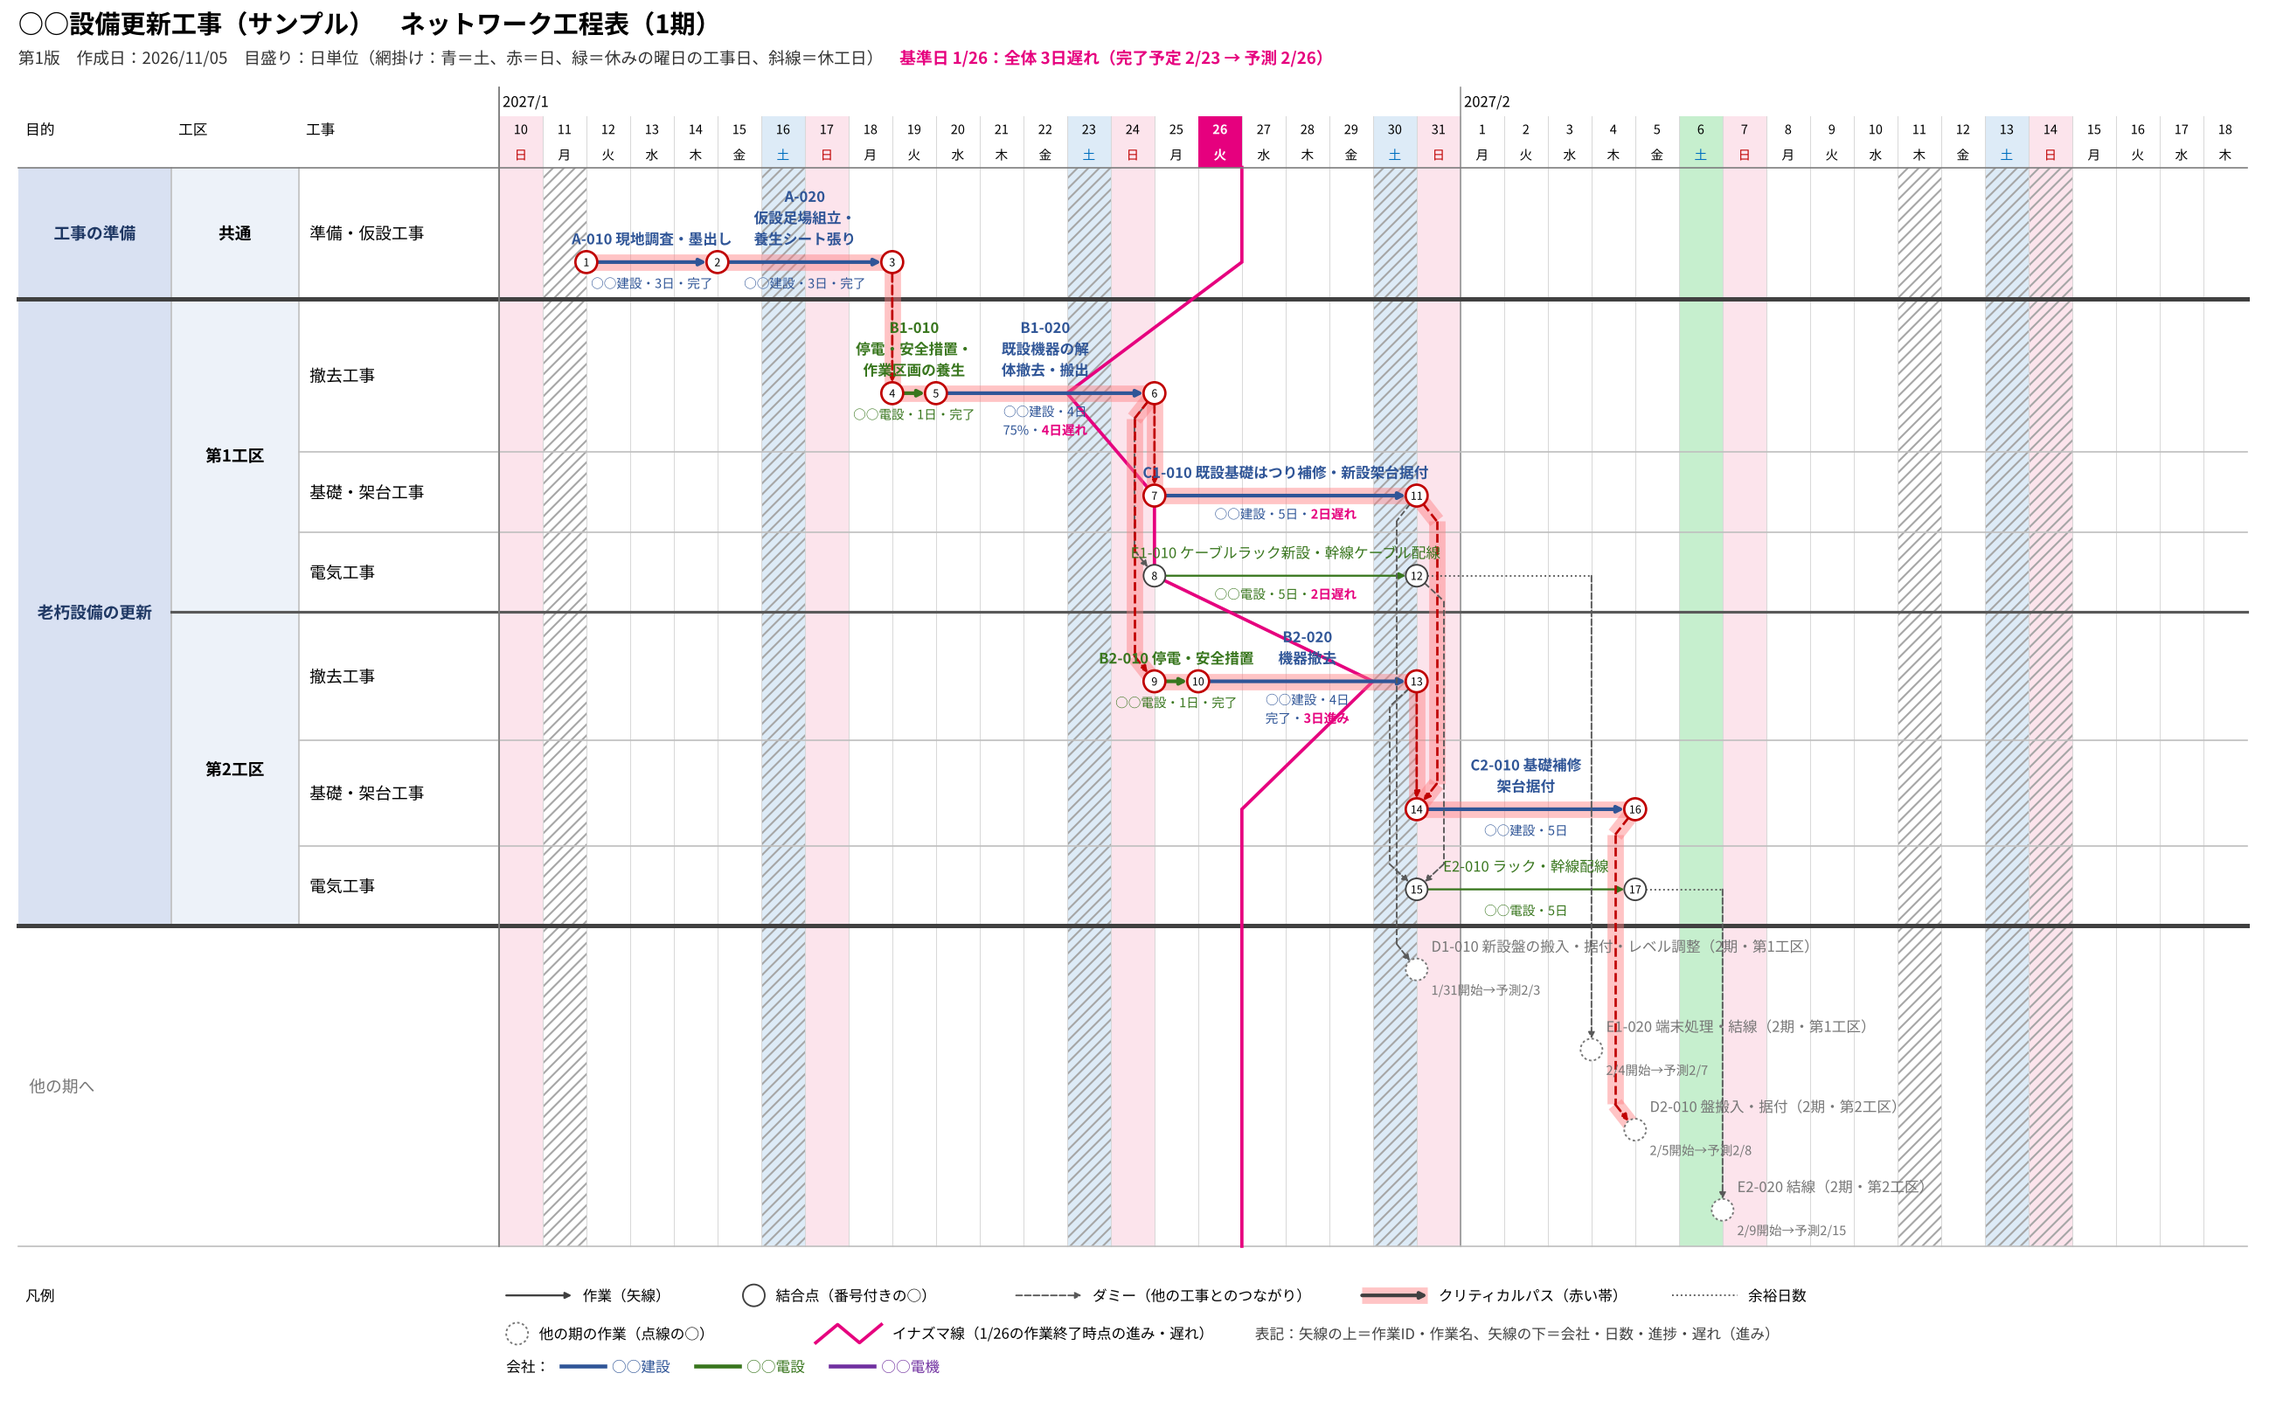
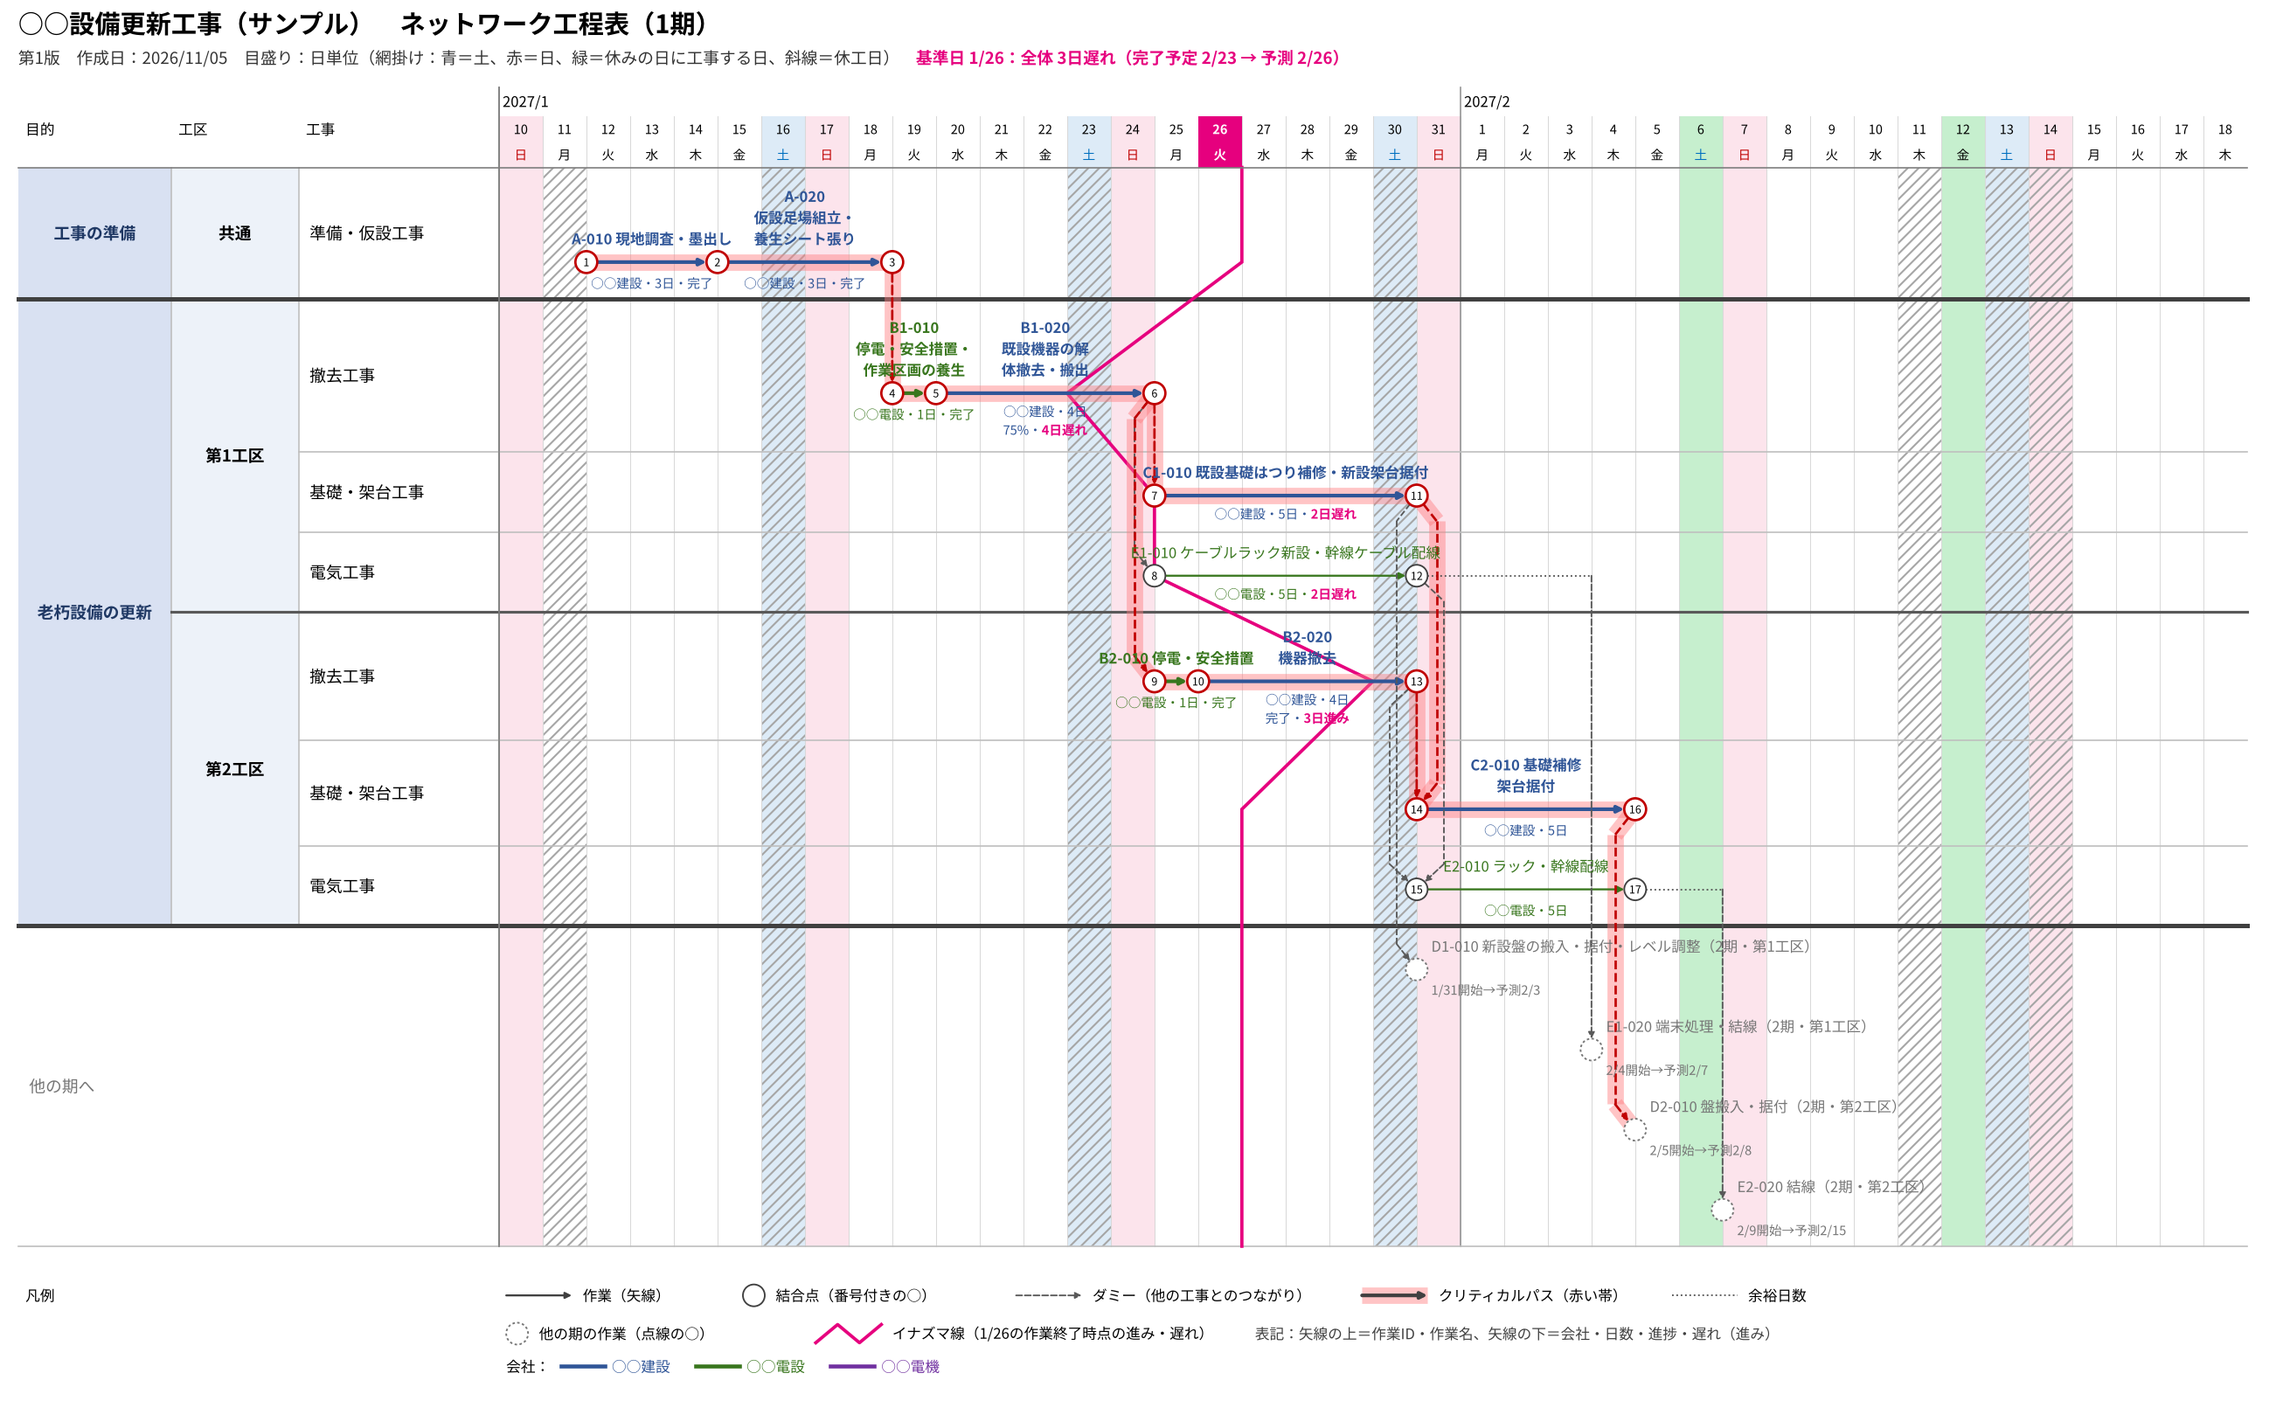
連休の中で工事する日も緑に。例外の日は1日・短い期間を優先
- 緑の網掛けを「休みの日（休みの曜日・休みの期間）を、例外の日で ○ にした日」に広げた。
  連休の中の平日を ○ にした日も緑になる（extraDict）
- 例外の日は期間の長い行から当てはめる。1日だけの指定や短い期間が優先し、同じ長さなら下の行が優先。
  連休の行と、その中の工事日の行は、どちらを上に書いてもよい
- 2行目の説明は「緑＝休みの日に工事する日」
- サンプル：2/11～2/14 を連休（×）、その中の 2/12 を工事する日（○）にした（工程は前と同じ）
- プレビュー（network_logic3.set_calendar）も同じ順で当てはめる。README の画像を差し替えた
- 使い方・工事カレンダーの説明・README・CLAUDE.md を更新

Excel ではまだ試していない。

Claude-Session: https://claude.ai/code/session_01B3QzGFNpJZqtoxUP34Lndd

Changed region(s): [[0.8373, 0.0624, 0.8683, 0.9046], [0.2791, 0.0312, 0.5892, 0.0624]]

diff --git a/tools/make_sample_book.py b/tools/make_sample_book.py
@@ -101,8 +101,9 @@ blocks = [
     ]),
     ("工事カレンダー（工事しない日）", [
         "・「工事カレンダー」シートの右の表で、曜日ごとに工事する（○）かしない（×）かを選ぶ。サンプルは土曜が ×、日曜は ○",
-        "・左の表に例外の日を書く。連休・臨時の休みは ×、休みの曜日だけど工事する日は ○。期間は開始日～終了日"
-        "（1日だけなら終了日は空欄）。同じ日を2回書いたときは下の行が優先",
+        "・左の表に例外の日を書く。連休・臨時の休みは ×、休みの曜日や連休の中で工事する日は ○。期間は開始日～終了日"
+        "（1日だけなら終了日は空欄）。1日だけの指定や短い期間は、長い期間より優先する（同じ長さなら下の行が優先）。"
+        "連休の中の工事日は、連休の行の上でも下でも ○ になる",
         "・工事しない日（休工日）は工程表で斜線になる。日数・余裕日数は工事する日の数なので、5日の作業が土曜をはさむと、"
         "矢線は6日分の長さになる",
         "・開始・終了が空欄の作業は、休工日を飛ばして置かれる。開始・終了を書いた作業が休工日に始まる・終わるときは、"
@@ -178,7 +179,7 @@ blocks = [
         "・週単位の目盛りでも日付の列は1日1列（細い列）。週の境目（月曜）を実線、日の境目を点線で引き、日付の行に月曜の"
         "日付を書く。○が何日にあるかは、月曜の線から点線を数えて読む",
         "・網掛けは、土曜が薄い青、日曜が薄い赤（日単位も週単位も）。休工日（工事カレンダーで決めた工事しない日）には斜線。"
-        "休みの曜日だけど工事する日（工事カレンダーの例外の日で ○ にした日）は薄い緑",
+        "休みの日（休みの曜日や連休など）だけど工事する日（工事カレンダーの例外の日で ○ にした日）は薄い緑",
     ]),
     ("作図の決まりごと", [
         "・縦軸は左から「目的」→「工区」→「工事」の3段。並びはどれも工程データに最初に出てきた順。目的・工区が空欄の作業は"
@@ -370,8 +371,9 @@ ws["A1"] = "工事カレンダー（工事しない日・工事する日）"
 ws["A1"].font = F(14, True, NAVY)
 ws.row_dimensions[1].height = 28
 ws["A2"] = ("工事しない日（休工日）を決めます。右の「曜日」の表で、曜日ごとに ○（工事する）か ×（工事しない）を選びます。"
-            "左の表には、連休・臨時の休み（×）や、休みの曜日だけど工事する日（○。工程表では薄い緑）を書きます。終了日が空欄なら1日だけ、"
-            "「工事」が空欄なら休みです。同じ日を2回書いたときは下の行が優先です。"
+            "左の表には、連休・臨時の休み（×）や、休みの曜日・連休の中で工事する日（○。工程表では薄い緑）を書きます。"
+            "終了日が空欄なら1日だけ、「工事」が空欄なら休みです。1日だけの指定や短い期間は、長い期間より優先します"
+            "（同じ長さなら下の行が優先）。"
             "休工日は工程表で斜線になり、開始・終了が空欄の作業を自動で置くときと、日数（工事する日の数）・余裕日数を"
             "数えるときに飛ばします。休工日に始まる・終わる作業は、工程データのチェック列に出ます。")
 ws["A2"].font = F(10, color=GRAY_TXT)

diff --git a/tools/preview/network_logic3.py b/tools/preview/network_logic3.py
@@ -40,6 +40,7 @@ NEUTRAL, GHOST_C, RED, GRAY, BAND, HOL_FILL = "#404040", "#767676", "#C00000", "
 HOL = set()     # 例外の日：工事しない（休工日）
 WORK = set()    # 例外の日：工事する（休みの曜日でも）
 WD_OFF = set()  # 工事しない曜日（weekday：月=0 … 日=6）
+EXTRA = set()   # 休みの日（休みの曜日・休みの期間）を、例外の日で工事する日にした日（工程表で緑）
 WEEK_JA = "月火水木金土日"
 
 
@@ -53,8 +54,8 @@ def is_hol(d):
 
 
 def is_extra_work(d):
-    """VBA の IsExtraWorkDay と同じ：休みの曜日だけど、例外の日で工事する日（○）にした日"""
-    return (d - 1) % 7 in WD_OFF and d in WORK
+    """VBA の IsExtraWorkDay と同じ：休みの日（休みの曜日・休みの期間）を、例外の日で工事する日（○）にした日"""
+    return d in EXTRA
 
 
 def is_work_mark(t, dflt):
@@ -70,23 +71,34 @@ def is_work_mark(t, dflt):
 
 
 def set_calendar(cal):
-    """工事カレンダー（tools/sample_calendar.json の形）を読み込む。VBA の LoadHolidays と同じく下の行ほど優先"""
+    """工事カレンダー（tools/sample_calendar.json の形）を読み込む。VBA の LoadHolidays と同じく、期間の長い行から
+    当てはめる（1日だけの指定や短い期間が優先。同じ長さなら後の行が優先）"""
     HOL.clear()
     WORK.clear()
     WD_OFF.clear()
+    EXTRA.clear()
     for ch, mark in cal.get("weekdays", {}).items():
         if ch[:1] in WEEK_JA and not is_work_mark(mark, True):
             WD_OFF.add(WEEK_JA.index(ch[:1]))
     if len(WD_OFF) == 7:  # すべて休みなら曜日の決まりは使わない
         WD_OFF.clear()
+    rows = []
     for e in cal.get("days", []):
         d1 = dt.date.fromisoformat(e["start"]).toordinal()
         d2 = dt.date.fromisoformat(e["end"]).toordinal() if e.get("end") else d1
         d1, d2 = min(d1, d2), max(d1, d2)
-        off = not is_work_mark(e.get("work", ""), False)
+        rows.append((d1, d2, not is_work_mark(e.get("work", ""), False)))
+    for d1, d2, off in sorted(rows, key=lambda r: -(r[1] - r[0])):  # 長い期間から（sorted は同じ長さの順を保つ）
         for d in range(d1, d2 + 1):
-            (HOL if off else WORK).add(d)
-            (WORK if off else HOL).discard(d)
+            if off:
+                HOL.add(d)
+                WORK.discard(d)
+                EXTRA.discard(d)
+            else:
+                if is_hol(d):  # 休みだった日を工事する日にした
+                    EXTRA.add(d)
+                WORK.add(d)
+                HOL.discard(d)
 
 
 def load_sample_calendar():

diff --git a/tools/preview/network_logic5.py b/tools/preview/network_logic5.py
@@ -28,7 +28,7 @@ NAME_FONT, SUB_FONT, GAP, LINE_PITCH = 8.0, 7.0, 2.0, 1.75
 INAZUMA = "#E6007E"  # イナズマ線（クリティカルパスの赤と見分ける）
 PURP_FILL, PURP_TXT, PURP_LINE = "#D9E1F2", "#1F3864", "#404040"  # 目的の欄の塗り・文字、目的の境目の線
 SAT_FILL, SUN_FILL, HOL_HATCH, SAT_TXT = "#DDEBF7", "#FCE4EC", "#A6A6A6", "#0070C0"  # 土・日の網掛け、休工日の斜線、土の文字
-EXTRA_FILL = "#C6EFCE"  # 休みの曜日だけど工事する日
+EXTRA_FILL = "#C6EFCE"  # 休みの日（曜日・連休など）だけど工事する日
 DAY_W, LANE_H, ARROW_OFF, NODE_D = 24.0, 44.0, 24.0, 12.0
 WEEK_DAY_W = 6.75  # 週単位の目盛りの1日の幅（VBA は列幅 0.7＝9px）
 R = NODE_D / 2
@@ -468,7 +468,7 @@ def render(acts, c, ph, gr, zn, sh, lay, colors, co_order, path, title, caption,
     has_extra = any(v3.is_extra_work(vs + k) for k in range(ncols))
     ax.text(X0, row_title + 13, f"{title}　ネットワーク工程表{caption}", fontsize=14, weight="bold", va="center")
     sub_txt = ("第1版　作成日：2026/11/05　目盛り：" + ("週単位（月曜始まり。点線は日の区切り。" if week else "日単位（") +
-               "網掛け：青＝土、赤＝日" + ("、緑＝休みの曜日の工事日" if has_extra else "") +
+               "網掛け：青＝土、赤＝日" + ("、緑＝休みの日に工事する日" if has_extra else "") +
                ("、斜線＝休工日" if has_hol else "") + "）")
     ax.text(X0, row_sub + 8, sub_txt, fontsize=9, va="center", color="#333333")
     if prog:

diff --git a/CLAUDE.md b/CLAUDE.md
@@ -103,15 +103,16 @@ DrawSheet
 - **週単位の目盛り（v11）**：日付の列は週単位でも1日1列（列幅 0.7 の細い列）。週の境目（月曜）を実線、日の境目を点線にし、
   ○が何日にあるか数えて読めるようにする。日付の行に月曜の日付。`XOf` は日単位と同じ計算
 - **工事カレンダー（v11）**：「工事カレンダー」シート（無ければ前の版の「休工日」シート＝A列の日付がすべて休み）。
-  右に「曜日」の表（月～日の ○×）、左に例外の日の表（開始日・終了日・工事・内容。終了日が空欄なら1日、工事が空欄なら休み、
-  下の行が優先）。`IsHoliday` は例外の日に書いてあればそれ、なければ曜日の決まり（全部 × なら曜日の決まりは使わない）
+  右に「曜日」の表（月～日の ○×）、左に例外の日の表（開始日・終了日・工事・内容。終了日が空欄なら1日、工事が空欄なら休み）。
+  例外の日は期間の長い行から当てはめる（1日だけの指定や短い期間が優先、同じ長さなら下の行。連休の中の工事日を順番に関係なく
+  書ける）。`IsHoliday` は例外の日に書いてあればそれ、なければ曜日の決まり（全部 × なら曜日の決まりは使わない）
   - 日数・余裕日数は工事する日の数（`WorkDaysIn`・`StartFromEnd`）。チェックは「休工日に始まる・終わる」と「日数と開始～終了の
     工事する日の数が合わない」。矢線の下の「n日」も工事する日の数
   - 矢線の終点 `actFd`＝終了日の翌日から休工日を飛ばした日（まとめの終点・つながり・○・他の期の作業もこれ）。
     休工日をはさんで続く作業と○を共有し、余裕に見えないようにする。工程データに書く日付（計算終了）は今までどおり
   - ○を動かしたとき：始まりは次の工事する日へ、終わりは前の工事する日へ寄せ、日数は工事する日の数を書く
   - 網掛け：土＝薄い青、日＝薄い赤（日単位も週単位も）、休工日＝斜線（段の行だけ）。曜日の文字は土＝青、日＝赤。
-    休みの曜日だけど例外の日で ○ にした日（`IsExtraWorkDay`）＝薄い緑 RGB(198, 239, 206)
+    休みの日（休みの曜日・休みの期間）を例外の日で ○ にした日（`IsExtraWorkDay`、`extraDict`）＝薄い緑 RGB(198, 239, 206)
 
 ## Python のプレビュー（tools/preview）
 

diff --git a/README.md b/README.md
@@ -36,7 +36,7 @@
 
 | 版 | 主な変更 |
 |---|---|
-| v11 | 工事カレンダー（曜日ごとの ○×、連休などの例外の日）で休工日を決める。土＝青・日＝赤・休みの曜日の工事日＝緑の網掛けと休工日の斜線。日数・余裕は工事する日で数え、休工日をはさむ矢線は次の工事日まで伸ばす。週単位の目盛りに日の区切りの点線。期ごとの目盛りの「日」は長くても日単位。サンプルの工程データを Excel のテーブルに。印刷は余白0・すべての行を1ページ、タイトル列（目的・工区・工事）とタイトル行（表題・目盛り）、ページ番号は右上 |
+| v11 | 工事カレンダー（曜日ごとの ○×、連休などの例外の日）で休工日を決める。土＝青・日＝赤・休みの日の工事日＝緑の網掛けと休工日の斜線。日数・余裕は工事する日で数え、休工日をはさむ矢線は次の工事日まで伸ばす。週単位の目盛りに日の区切りの点線。期ごとの目盛りの「日」は長くても日単位。サンプルの工程データを Excel のテーブルに。印刷は余白0・すべての行を1ページ、タイトル列（目的・工区・工事）とタイトル行（表題・目盛り）、ページ番号は右上 |
 | v10 | 縦軸に「目的」の列（工区の左）。目的 → 工区 → 工事の3段で、同じ工区でも目的が違えば分けて並べる。まとめも目的ごと |
 | v9 | 大きな工程表で止まりにくく：作図中に進み具合を表示（Esc で中止）、目盛りの「自動」（長い期間は週単位）、目盛りをまとめて描く、シートごとにかかった時間と図形の数を表示 |
 | v8 | 実績の記入と遅れ：イナズマ線、矢線の下に「n日遅れ／進み」、全体の完了予測、工程データに予定進捗・予測終了など |
